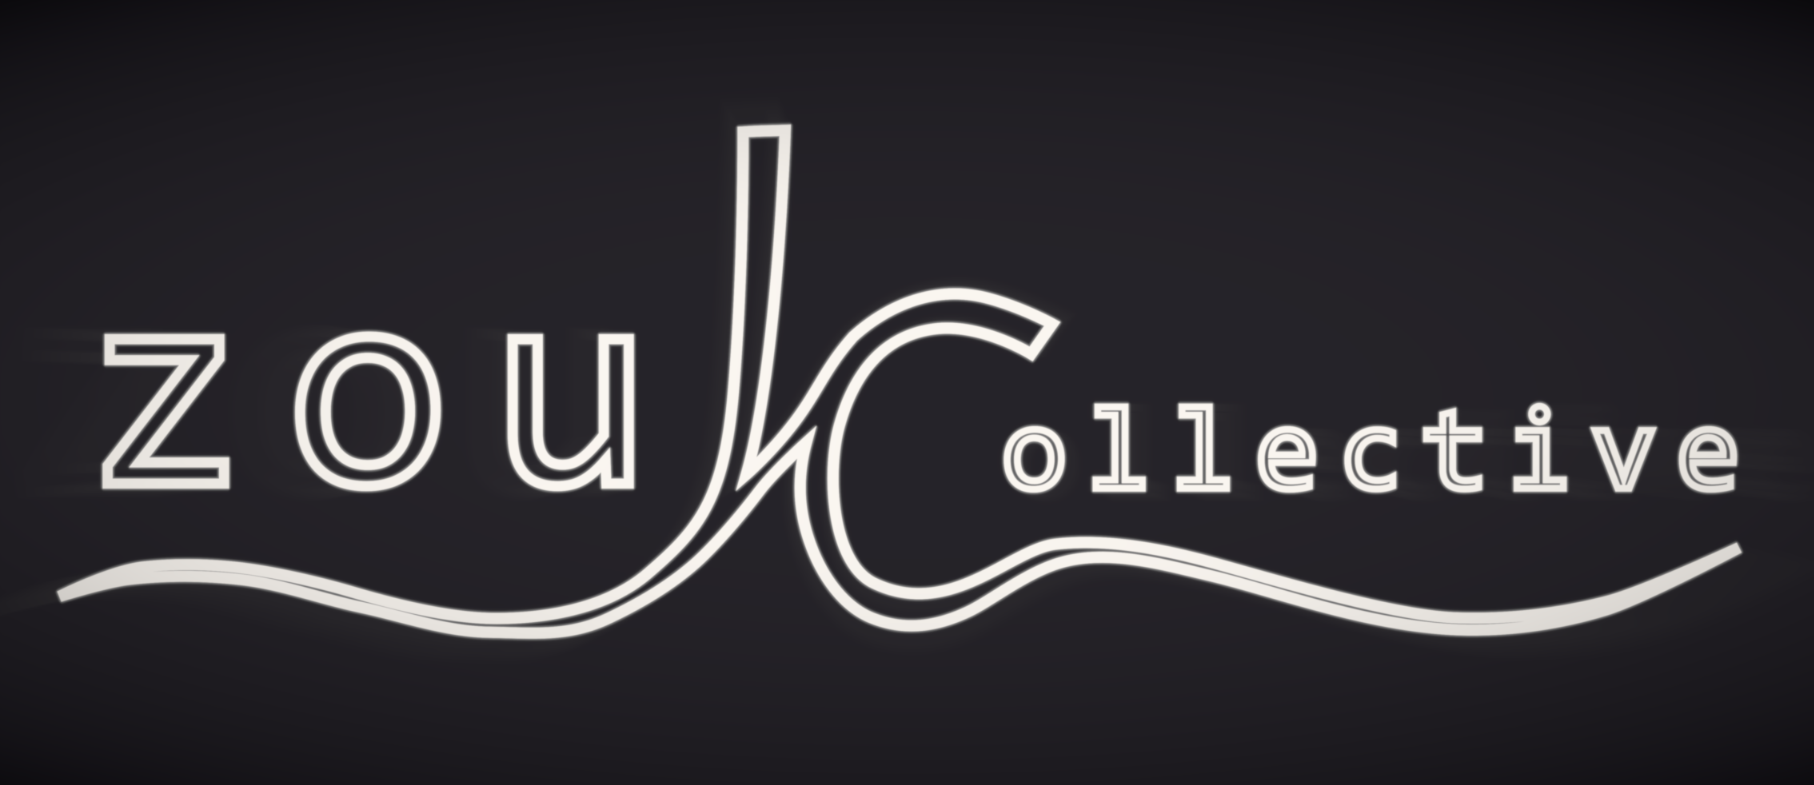
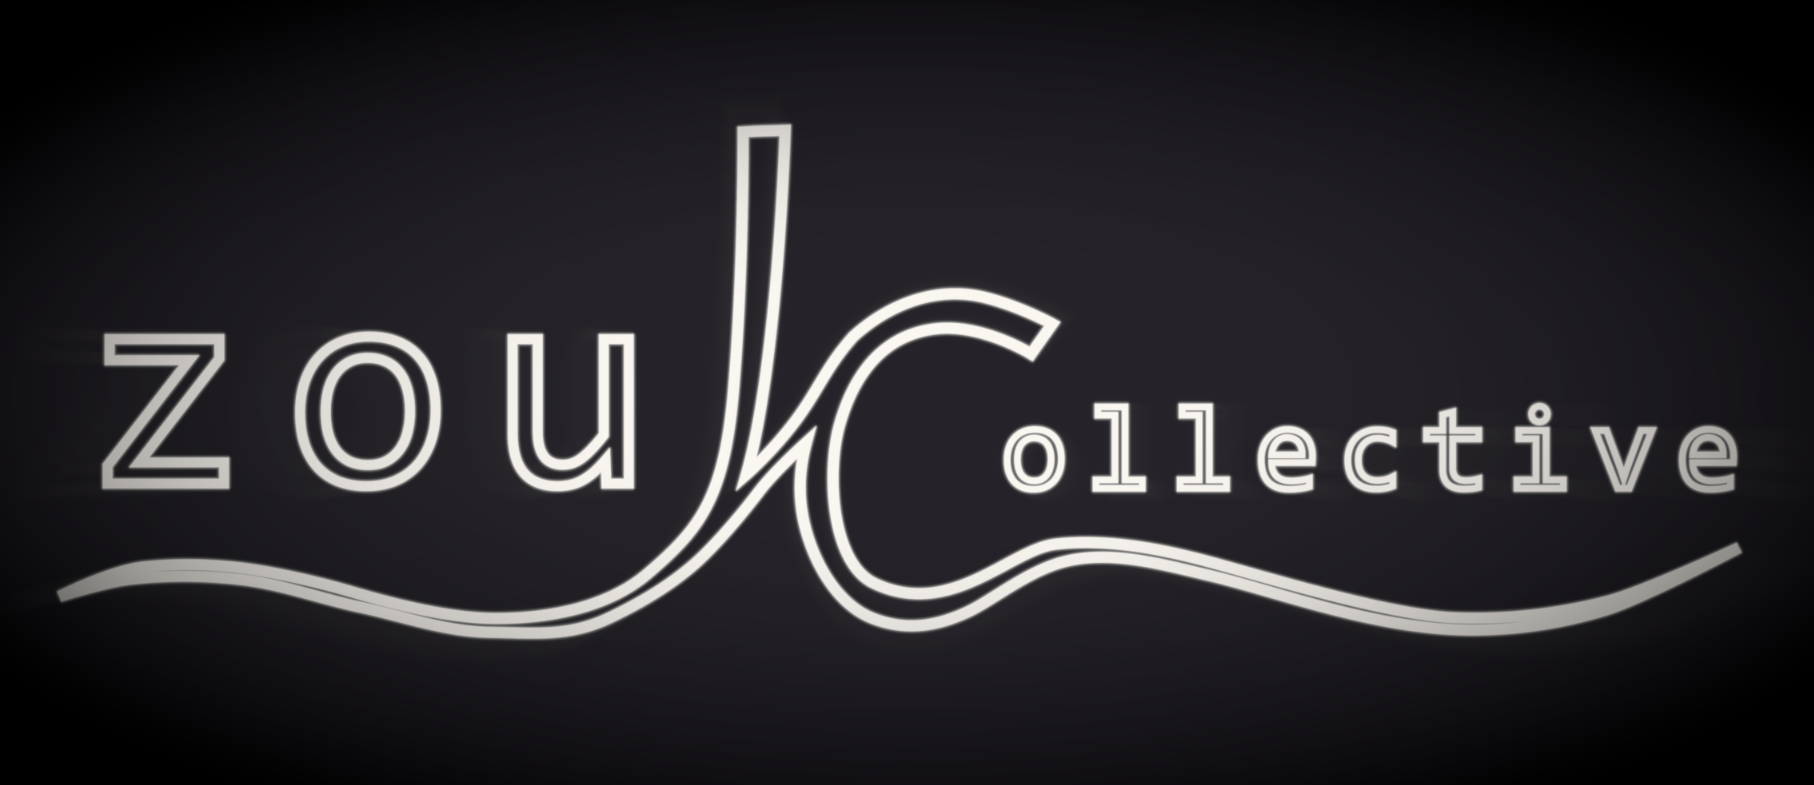
colors etc

diff --git a/index.html b/index.html
@@ -5,7 +5,11 @@
 	<meta name="viewport" content="width=device-width, initial-scale=1">
 	<meta name="description" content="Učíme brazilský zouk, organizujeme tréninky, praktiky a tančírny, budujeme komunitu.">
 
-	<title>Zouk Session</title>
+	<title>Zouk Collective</title>
+    <link rel="preconnect" href="https://fonts.googleapis.com">
+    <link rel="preconnect" href="https://fonts.gstatic.com" crossorigin>
+    <link href="https://fonts.googleapis.com/css2?family=Roboto+Mono:wght@400;500;700;800&display=swap" rel="stylesheet">
+    <link rel="stylesheet" href="assets/css/styles.css">
 
 	<link rel="stylesheet" href="assets/css/styles.css">
 
@@ -141,8 +145,7 @@
 				Přijď to zkusit a uvidíme. Pro úplné začátečníky je první lekce zdarma.
 			</p>
 
-			<h2>Kdo jsme</h2>
-			<p>&lt;todo&gt;</p>
+
 		</section>
 	</main>
 

diff --git a/en/index.html b/en/index.html
@@ -6,7 +6,10 @@
 	<meta name="description" content="We teach Brazilian zouk, organize training sessions, guided practice, and social dancing, and build community.">
 
 	<title>Zouk Session</title>
-
+    <link rel="preconnect" href="https://fonts.googleapis.com">
+    <link rel="preconnect" href="https://fonts.gstatic.com" crossorigin>
+    <link href="https://fonts.googleapis.com/css2?family=Roboto+Mono:wght@400;500;700;800&display=swap" rel="stylesheet">
+    <link rel="stylesheet" href="../assets/css/styles.css">
 	<link rel="stylesheet" href="../assets/css/styles.css">
 
 	<link rel="alternate" hreflang="cs" href="/">
@@ -137,8 +140,6 @@
 				Come try it and we will see. The first lesson is free for complete beginners.
 			</p>
 
-			<h2>Who we are</h2>
-			<p>&lt;todo&gt;</p>
 		</section>
 	</main>
 

diff --git a/assets/css/styles.css b/assets/css/styles.css
@@ -2,10 +2,10 @@
 	--bg: #161518;
 	--surface: #211f27;
 	--surface-2: #2a2732;
-	--text: #f4f0ff;
-	--muted: #d3ccdf;
-	--accent: #ed67ffda;
-	--accent-strong: #b89cff;
+	--text: #fffff3;
+	--muted: #fffff8;
+	--accent: lab(98.94% -0.71 5.12 / 0.875);
+	--accent-strong: #fffad8;
 	--border: rgba(255, 255, 255, 0.14);
 	--max-width: 980px;
 }
@@ -22,7 +22,7 @@ body {
 	margin: 0;
 	background: var(--bg);
 	color: var(--text);
-	font-family: system-ui, -apple-system, BlinkMacSystemFont, "Segoe UI", sans-serif;
+	font-family: "Roboto Mono", monospace;
 	line-height: 1.65;
 }
 
